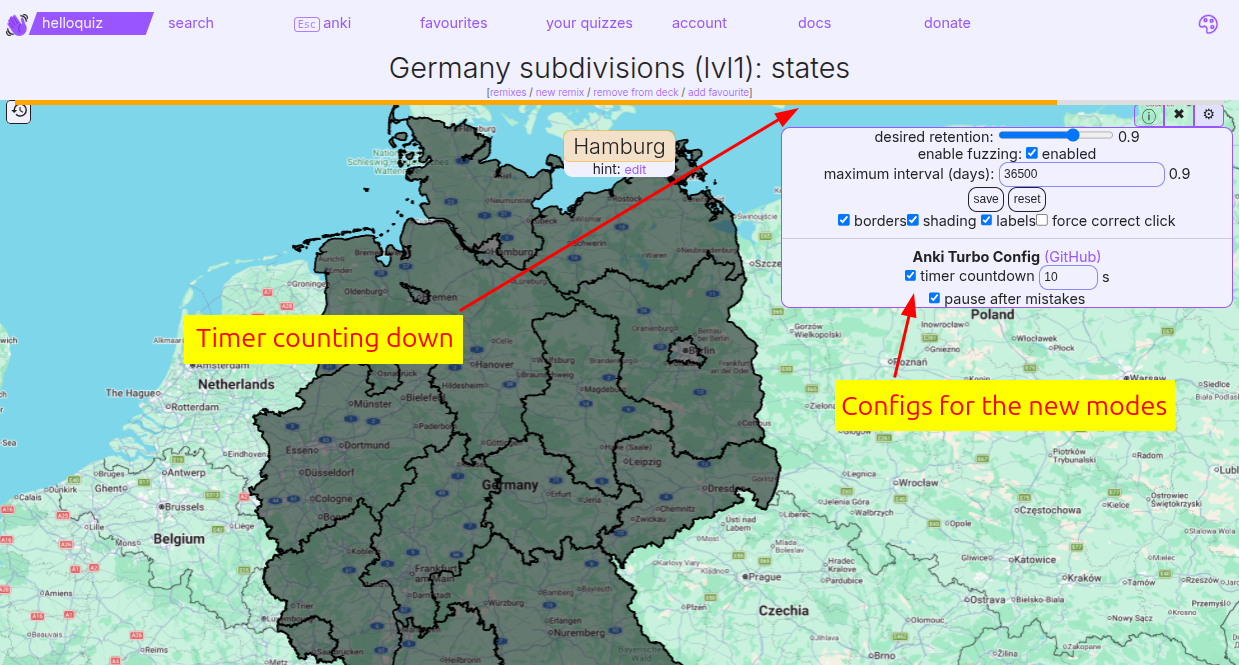
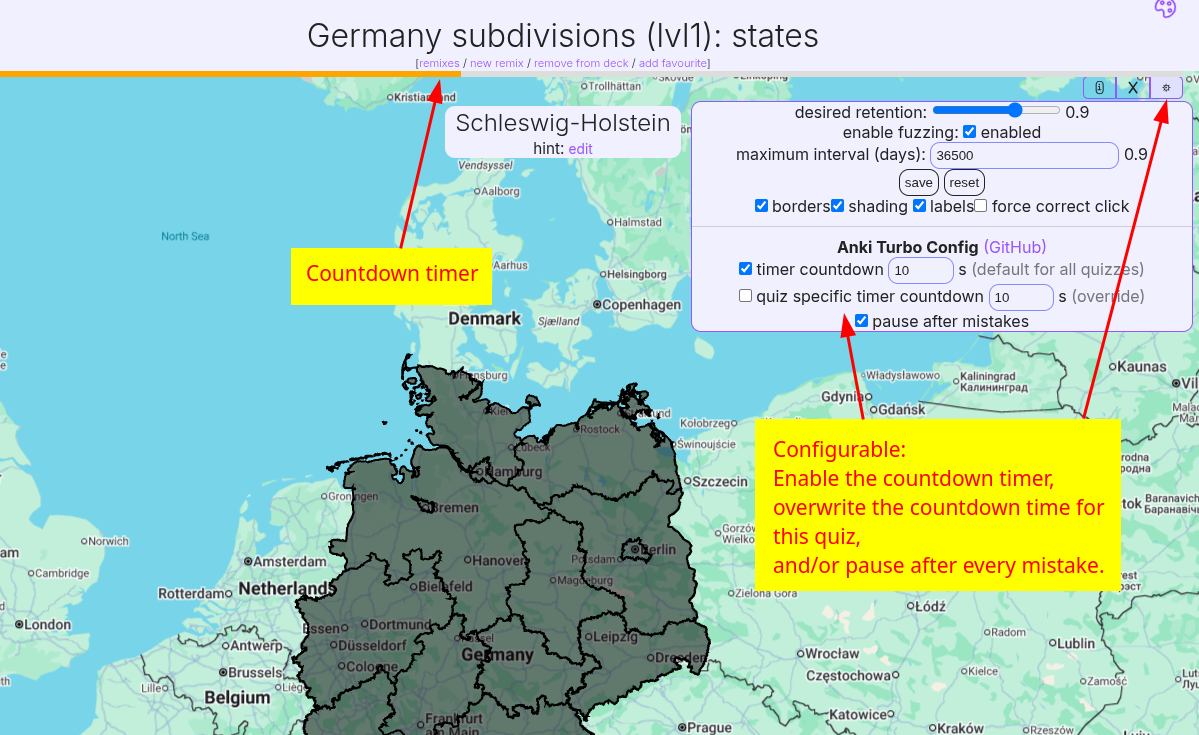
readme: shorten adjusted hints description

diff --git a/README.md b/README.md
@@ -6,7 +6,7 @@ A [Tampermonkey](https://www.tampermonkey.net/) / [Violentmonkey](https://violen
 
 - **Per-question countdown** — a thin timer bar counts down from a configurable number of seconds. When it runs out, the card is automatically graded as failed ("again"), so slowly scanning the map for the right city/region gets penalized automatically.
 - **Review pause after mistakes** — when you answer wrong (or time out), the quiz pauses on the current card so you can study and learn it before moving on. This replaces the app's own **"force correct click"** mode, which doesn't work correctly for city quizzes — the review pause gives you the same "look at the right answer before continuing" effect on every quiz type.
-- **Adjusted hints** — the hint line below the question (and its *display* / *edit* actions) always refers to the question you actually see. Without the script, the app secretly preloads the next question the moment you answer, so during the pause the shown hint — and any hint edit — would silently apply to the *next* question. The script keeps them attached to the displayed question, so viewing and changing hints works even in the pause mode (and on the grading and end-of-quiz screens, where the app normally drops the hint line entirely).
+- **Adjusted hints** — the hint below the question (and its *display* / *edit* actions) always belongs to the question you actually see, so viewing and changing hints works even in the pause mode and on the grading and end-of-quiz screens.
 - **Settings** — the quiz's settings panel is extended, so that you can enable/disable the countdown timer, set the timer duration, and enable/disable the review pause. The timer duration defaults to one value for all quizzes, but you can override it per quiz — tick *quiz specific timer countdown* while in a quiz to give just that one its own duration. All settings are remembered across sessions, but stored locally in the browser, so they are not synced across devices.
 - **Keyboard shortcuts** with matching on-screen key badges:
   - <kbd>1</kbd> / <kbd>2</kbd> / <kbd>3</kbd> / <kbd>4</kbd> — grade the current card (again / hard / good / easy)